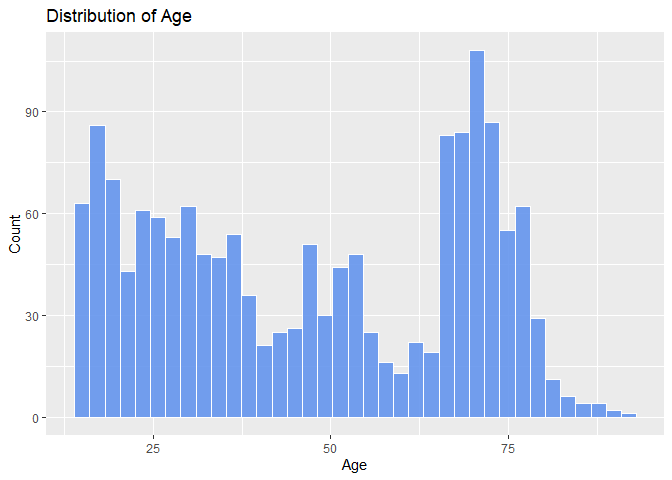
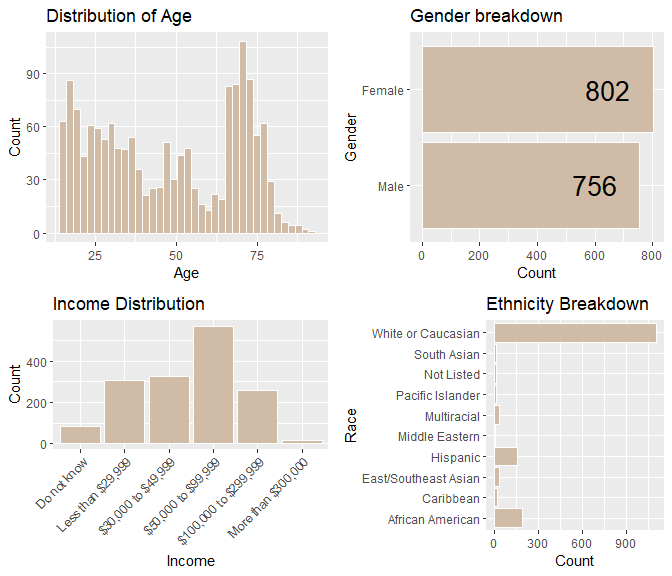
Demographic EDA

diff --git a/README.md b/README.md
@@ -63,16 +63,10 @@ summary(UpgradeInternet)
     ##   0   1 
     ## 814 744
 
-Below are breakdowns of the Age and Gender distributions of the data.
+Below are breakdowns of the demographic factors of the dataset
 
 ``` r
-ageHist
+demogPlot
 ```
 
 ![](README_files/figure-gfm/unnamed-chunk-5-1.png)<!-- -->
-
-``` r
-genderBar
-```
-
-![](README_files/figure-gfm/unnamed-chunk-5-2.png)<!-- -->
